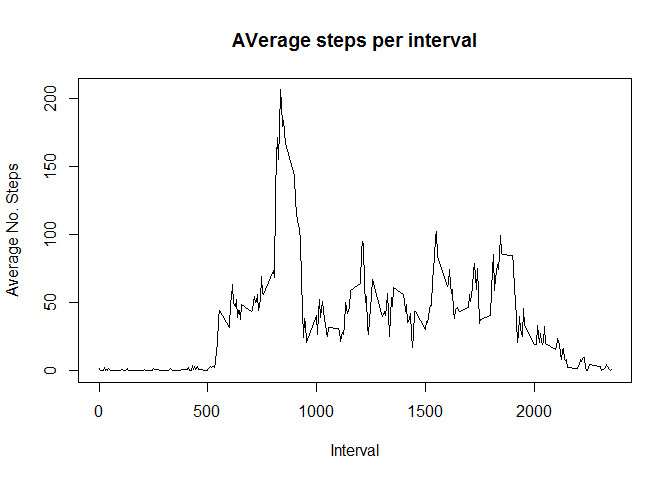
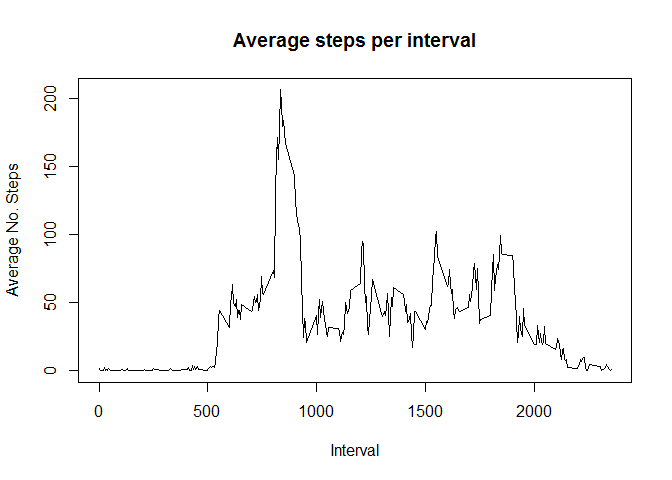
All but last question

Changed region(s): [[0.3438, 0.0625, 0.7188, 0.125]]

diff --git a/PA1_template.html b/PA1_template.html
@@ -118,8 +118,8 @@ hist(daily_steps$total_steps, main=&quot;Histogram of Daily Step Totals&quot;, x
 <pre class="r"><code>interval_avg &lt;- aggregate(data$steps, list(data$interval), FUN=mean, na.rm=TRUE)
 names(interval_avg) &lt;- c(&quot;Interval&quot;, &quot;TotalSteps&quot;)
 
-plot(interval_avg, type=&quot;l&quot;, main=&quot;AVerage steps per interval&quot;, xlab=&quot;Interval&quot;, ylab=&quot;Average No. Steps&quot;)</code></pre>
[1 lines of base64/hex data omitted]
+plot(interval_avg, type=&quot;l&quot;, main=&quot;Average steps per interval&quot;, xlab=&quot;Interval&quot;, ylab=&quot;Average No. Steps&quot;)</code></pre>
[1 lines of base64/hex data omitted]
 <pre class="r"><code>interval_avg[which(interval_avg$TotalSteps == max(interval_avg$TotalSteps)),]</code></pre>
 <pre><code>##     Interval TotalSteps
 ## 104      835   206.1698</code></pre>
@@ -127,6 +127,29 @@ plot(interval_avg, type=&quot;l&quot;, main=&quot;AVerage steps per interval&quo
 </div>
 <div id="imputing-missing-values" class="section level2">
 <h2>Imputing missing values</h2>
+<p>First we determine how many rows of the dataset contain NA values for the steps variable. We can do this by calling the nrow() function on the subset of “data” which contains NA values in the steps column.</p>
+<pre class="r"><code>nrow(data[is.na(data$steps),])</code></pre>
+<pre><code>## [1] 2304</code></pre>
+<p>This shows that there are 2304 NA values in steps variable of the data table. Furhtermore, it is clear that all of these NA values occur on individual days (and there are 8 of these (8 x 288 = 2,304!))</p>
+<p>A very simple imputation model would be to replace these values with the average number of steps per time interval into these days. We can take the values from the interval_avg data table. To do this, we create a new data frame called “new_data” and merge the NA values in the “data” frame into it and merge with the average steps from the “interval_avg” frame. Then we can use rbind() to link the new average values with the existing non-NA values in the “data” frame.</p>
+<p>Once we are done, we confirm with the summary() function that we have removed the NA values and also use nrow() to double check.</p>
+<pre class="r"><code>new_data &lt;- data
+new_data &lt;- merge(data[is.na(data$steps),],interval_avg, by.x=&quot;interval&quot;, by.y=&quot;Interval&quot;, all.x=TRUE)
+new_data &lt;- new_data[,c(4,3,1)]
+names(new_data) &lt;- c(&quot;steps&quot;, &quot;date&quot;, &quot;interval&quot;)
+new_data2 &lt;- rbind(data[!is.na(data$steps),], new_data)
+
+summary(new_data2)</code></pre>
+<pre><code>##      steps                date          interval     
+##  Min.   :  0.00   2012-10-01:  288   Min.   :   0.0  
+##  1st Qu.:  0.00   2012-10-02:  288   1st Qu.: 588.8  
+##  Median :  0.00   2012-10-03:  288   Median :1177.5  
+##  Mean   : 37.38   2012-10-04:  288   Mean   :1177.5  
+##  3rd Qu.: 27.00   2012-10-05:  288   3rd Qu.:1766.2  
+##  Max.   :806.00   2012-10-06:  288   Max.   :2355.0  
+##                   (Other)   :15840</code></pre>
+<pre class="r"><code>nrow(new_data2[is.na(new_data2$steps),])</code></pre>
+<pre><code>## [1] 0</code></pre>
 </div>
 <div id="are-there-differences-in-activity-patterns-between-weekdays-and-weekends" class="section level2">
 <h2>Are there differences in activity patterns between weekdays and weekends?</h2>

diff --git a/PA1_template.md b/PA1_template.md
@@ -100,7 +100,7 @@ To determine the average daily step pattern, we now aggregate the data across al
 interval_avg <- aggregate(data$steps, list(data$interval), FUN=mean, na.rm=TRUE)
 names(interval_avg) <- c("Interval", "TotalSteps")
 
-plot(interval_avg, type="l", main="AVerage steps per interval", xlab="Interval", ylab="Average No. Steps")
+plot(interval_avg, type="l", main="Average steps per interval", xlab="Interval", ylab="Average No. Steps")
 ```
 
 ![](PA1_template_files/figure-html/unnamed-chunk-4-1.png)\
@@ -118,6 +118,52 @@ This shows that the 835 time interval on average has the most number of steps wi
 
 ## Imputing missing values
 
+First we determine how many rows of the dataset contain NA values for the steps variable.  We can do this by calling the nrow() function on the subset of "data" which contains NA values in the steps column.
+
+
+```r
+nrow(data[is.na(data$steps),])
+```
+
+```
+## [1] 2304
+```
+
+This shows that there are 2304 NA values in steps variable of the data table. Furhtermore, it is clear that all of these NA values occur on individual days (and there are 8 of these (8 x 288 = 2,304!))
+
+A very simple imputation model would be to replace these values with the average number of steps per time interval into these days.  We can take the values from the interval_avg data table.  To do this, we create a new data frame called "new_data" and merge the NA values in the "data" frame into it and merge with the average steps from the "interval_avg" frame.  Then we can use rbind() to link the new average values with the existing non-NA values in the "data" frame.
+
+Once we are done, we confirm with the summary() function that we have removed the NA values and also use nrow() to double check.
+
+
+```r
+new_data <- data
+new_data <- merge(data[is.na(data$steps),],interval_avg, by.x="interval", by.y="Interval", all.x=TRUE)
+new_data <- new_data[,c(4,3,1)]
+names(new_data) <- c("steps", "date", "interval")
+new_data2 <- rbind(data[!is.na(data$steps),], new_data)
+
+summary(new_data2)
+```
+
+```
+##      steps                date          interval     
+##  Min.   :  0.00   2012-10-01:  288   Min.   :   0.0  
+##  1st Qu.:  0.00   2012-10-02:  288   1st Qu.: 588.8  
+##  Median :  0.00   2012-10-03:  288   Median :1177.5  
+##  Mean   : 37.38   2012-10-04:  288   Mean   :1177.5  
+##  3rd Qu.: 27.00   2012-10-05:  288   3rd Qu.:1766.2  
+##  Max.   :806.00   2012-10-06:  288   Max.   :2355.0  
+##                   (Other)   :15840
+```
+
+```r
+nrow(new_data2[is.na(new_data2$steps),])
+```
+
+```
+## [1] 0
+```
 
 
 ## Are there differences in activity patterns between weekdays and weekends?
